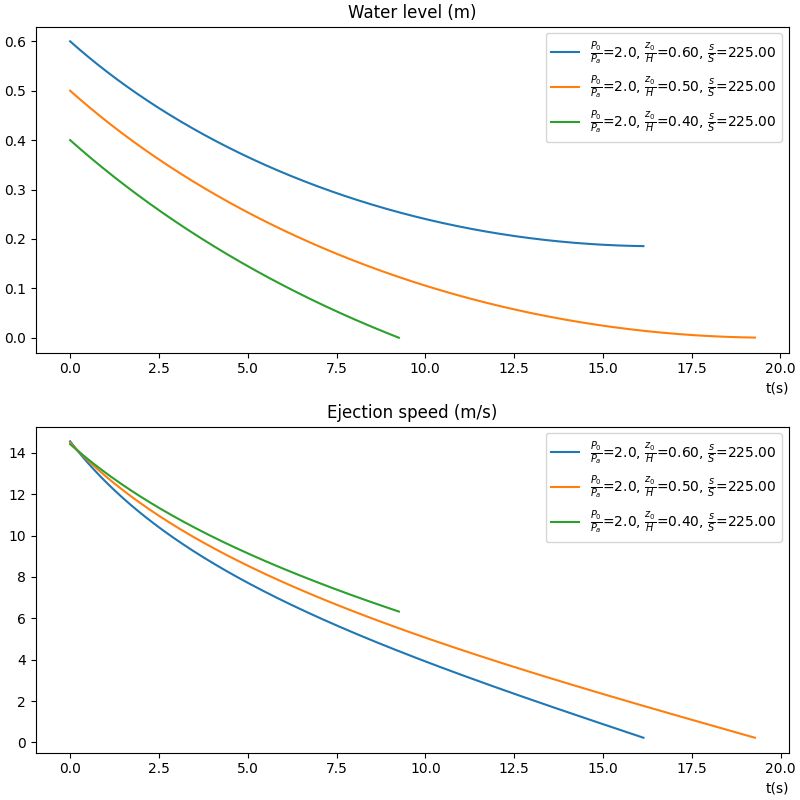
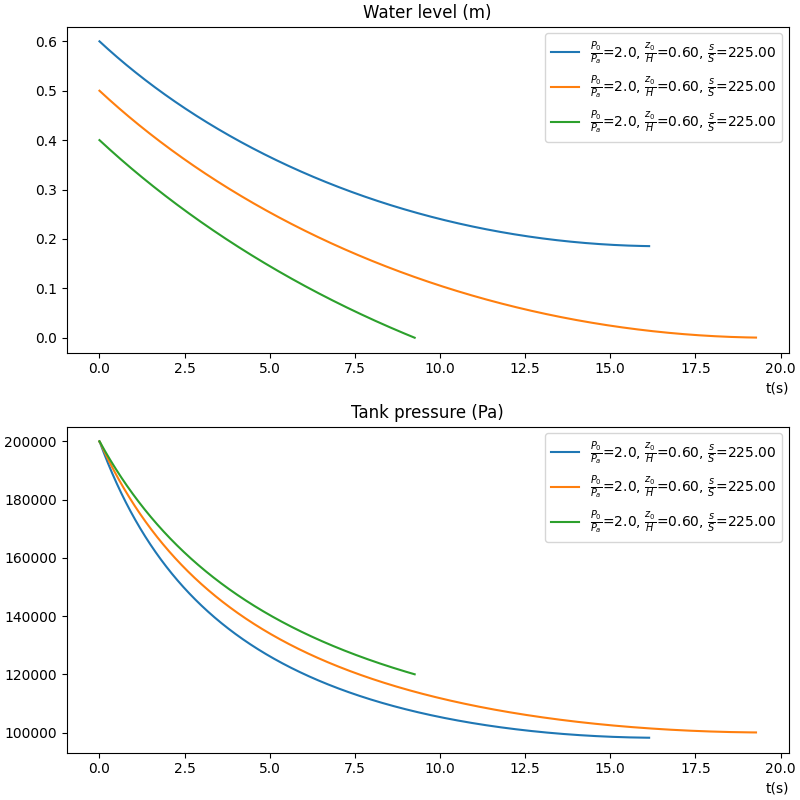
plot pressure instead of ejection speed

diff --git a/main.py b/main.py
@@ -18,18 +18,18 @@ class Tank:
 
 InitialConditions = namedtuple("InitialConditions", ["P0", "z0"])
 
-def p(z, tank, ic):
+def pressure(z, tank, ic):
     return ic.P0 * (tank.H - ic.z0) / (tank.H - z)
     
 def F(z, tank, ic):
-    return - np.sqrt((2. / tank.beta) * ((g * z) + (p(z, tank, ic) - Pa) / rho))
+    return - np.sqrt((2. / tank.beta) * ((g * z) + (pressure(z, tank, ic) - Pa) / rho))
 
 def stop(z, f, tank, ic):
     if z < 0:
         return True, "water level hit the bottom"
     if abs(f) < 0.001:
         return True, f"flow reached slow speed: {abs(f)} m/s"
-    if (g * z) + (p(z, tank, ic) - Pa) / rho < 0:
+    if (g * z) + (pressure(z, tank, ic) - Pa) / rho < 0:
         return True, f"hydrostatic equilibrium went wrong, reduce dt"
     return False, ""
 
@@ -37,50 +37,54 @@ def stop(z, f, tank, ic):
 def euler(dt, tank, ic):
     z = [ic.z0]
     v = [abs(F(ic.z0, tank, ic) * tank.S / tank.s)]
+    p = [pressure(z[0], tank, ic)]
     stop_now, reason = stop(z[0], v[0], tank, ic)
     while not stop_now:
         zn = z[-1]
         f = F(zn, tank, ic)
         z.append(zn + dt * f)
         v.append(abs(f * tank.S / tank.s))
+        p.append(pressure(zn, tank, ic))
         stop_now, reason = stop(zn, f, tank, ic)
     print("Simulation stopped because", reason)
-    return z, v
+    return z, v, p
 
-def plot(z, v, tank, ic, water, flow, color=''):
+def plot(data, tank, ic, ax):
     PoP = "${\\frac{P_0}{P_a}}$"
     zoH = "${\\frac{z_0}{H}}$"
     soS = "${\\frac{s}{S}}$"
     simu_params = f"{PoP}={ic.P0/Pa}, {zoH}={ic.z0/tank.H:.2f}, {soS}={tank.S / tank.s:.2f}"
-    water_plot = water.plot(dt * np.arange(len(z)), z, label = simu_params)
-    flow_plot = flow.plot(dt * np.arange(len(v)), v, label = simu_params)
+    ax.plot(dt * np.arange(len(data)), data, label = simu_params)
 
 if __name__ == "__main__":
     # Simus
     tank = Tank(d = 0.02)
     ic = InitialConditions(P0 = 2. * Pa, z0 = 0.6 * tank.H)
     dt = 10**-4 * tank.H / abs(F(ic.z0, tank, ic))
-    z, v = euler(dt, tank, ic)
+    z, v, p = euler(dt, tank, ic)
     # ----------------------
     ic1 = InitialConditions(P0 = 2. * Pa, z0 = 0.5 * tank.H)
     dt = 10**-4  * tank.H / abs(F(ic1.z0, tank, ic1))
-    z1, v1 = euler(dt, tank, ic1)
+    z1, v1, p1 = euler(dt, tank, ic1)
     # ----------------------
     ic2 = InitialConditions(P0 = 2. * Pa, z0 = 0.4 * tank.H)
     dt = 10**-4  * tank.H / abs(F(ic2.z0, tank, ic2))
-    z2, v2 = euler(dt, tank, ic2)
+    z2, v2, p2 = euler(dt, tank, ic2)
 
     # Plot
-    f, (water, flow) = plt.subplots(2, 1, constrained_layout=True, figsize = (8, 8))
-    water.set_title("Water level (m)")
-    water.set_xlabel("t(s)", loc="right")
-    plot(z, v, tank, ic, water, flow)
-    plot(z1, v1, tank, ic1, water, flow, color = 'red')
-    plot(z2, v2, tank, ic2, water, flow, color = 'green')
-    flow.set_title("Ejection speed (m/s)")
-    flow.set_xlabel("t(s)", loc="right")
+    f, (w_ax, p_ax) = plt.subplots(2, 1, constrained_layout=True, figsize = (8, 8))
+    plot(z, tank, ic, w_ax)
+    plot(z1, tank, ic, w_ax)
+    plot(z2, tank, ic, w_ax)
+    plot(p, tank, ic, p_ax)
+    plot(p1, tank, ic, p_ax)
+    plot(p2, tank, ic, p_ax)
+    w_ax.set_title("Water level (m)")
+    w_ax.set_xlabel("t(s)", loc="right")
+    p_ax.set_title("Tank pressure (Pa)")
+    p_ax.set_xlabel("t(s)", loc="right")
 
     
-    water.legend()
-    flow.legend()
+    w_ax.legend()
+    p_ax.legend()
     plt.show()
